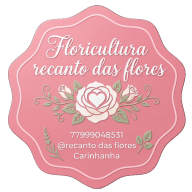
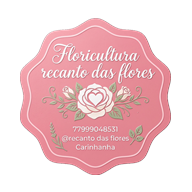
fix(pwa): corrige icone do aplicativo removendo faixas pretas e adicionando suporte a maskable e fundo solido

diff --git a/vite.config.ts b/vite.config.ts
@@ -25,7 +25,14 @@ export default defineConfig(({ mode }) => ({
       devOptions: {
         enabled: true,
       },
-      includeAssets: ["favicon.ico", "apple-touch-icon.png", "masked-icon.svg"],
+      includeAssets: [
+        "favicon.ico",
+        "apple-touch-icon.png",
+        "icon-192x192.png",
+        "icon-512x512.png",
+        "icon-maskable-192x192.png",
+        "icon-maskable-512x512.png"
+      ],
       manifest: {
         name: "Recanto das Flores App",
         short_name: "Recanto das Flores",
@@ -38,11 +45,25 @@ export default defineConfig(({ mode }) => ({
             src: "/icon-192x192.png",
             sizes: "192x192",
             type: "image/png",
+            purpose: "any"
           },
           {
             src: "/icon-512x512.png",
             sizes: "512x512",
             type: "image/png",
+            purpose: "any"
+          },
+          {
+            src: "/icon-maskable-192x192.png",
+            sizes: "192x192",
+            type: "image/png",
+            purpose: "maskable"
+          },
+          {
+            src: "/icon-maskable-512x512.png",
+            sizes: "512x512",
+            type: "image/png",
+            purpose: "maskable"
           },
         ],
       },

diff --git a/index.html b/index.html
@@ -5,7 +5,8 @@
     <meta name="viewport" content="width=device-width, initial-scale=1.0, maximum-scale=1.0, user-scalable=no" />
     <meta name="theme-color" content="#ffffff" />
     <meta name="google" content="notranslate" />
-    <link rel="apple-touch-icon" href="/icon-192x192.png" />
+    <link rel="icon" type="image/png" sizes="192x192" href="/icon-192x192.png" />
+    <link rel="apple-touch-icon" href="/apple-touch-icon.png" />
     <!-- TODO: Set the document title to the name of your application -->
     <title>Recanto das Flores</title>
     <meta name="description" content="Aplicativo Oficial do Recanto das Flores">
